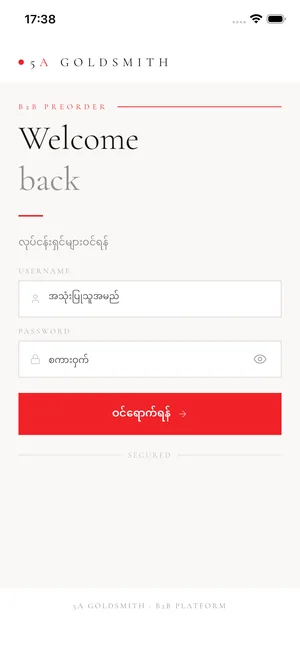
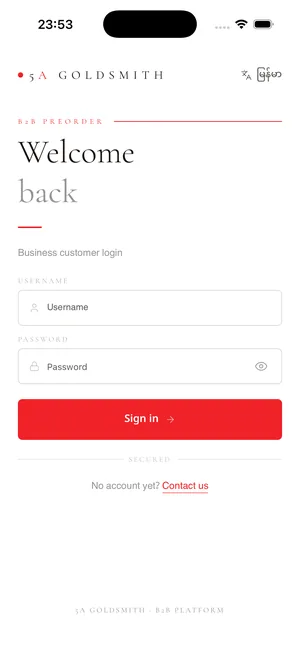
5A Goldsmith: replace app screenshots with the English versions
All six phone screens (login, home/catalogue, product detail, cart/PIN
checkout, orders, order detail) re-shot in the app's English UI, resized to
720px and 300px WebP as before; sizes updated to 720×1565.

diff --git a/src/data/projects.ts b/src/data/projects.ts
@@ -138,12 +138,12 @@ export const projects: Project[] = [
           heading: "Mobile app — iOS and Android, React Native and Expo",
           device: "phone",
           shots: [
-            { file: "login", caption: "Login", width: 720, height: 1558 },
+            { file: "login", caption: "Login", width: 720, height: 1565 },
             { file: "home-catalog", caption: "Home · catalogue", width: 720, height: 1565 },
-            { file: "product-detail", caption: "Product detail", width: 720, height: 1558 },
-            { file: "cart-pin-checkout", caption: "Cart · PIN checkout", width: 720, height: 1558 },
-            { file: "orders", caption: "Orders", width: 720, height: 1558 },
-            { file: "order-detail", caption: "Order detail", width: 720, height: 1558 },
+            { file: "product-detail", caption: "Product detail", width: 720, height: 1565 },
+            { file: "cart-pin-checkout", caption: "Cart · PIN checkout", width: 720, height: 1565 },
+            { file: "orders", caption: "Orders", width: 720, height: 1565 },
+            { file: "order-detail", caption: "Order detail", width: 720, height: 1565 },
           ],
         },
         {

diff --git a/src/components/home/SelectedWork.tsx b/src/components/home/SelectedWork.tsx
@@ -5,8 +5,8 @@ import { ProjectCard } from "./ProjectCard";
 
 const FEATURED_SHOTS = [
   { file: "home-catalog", alt: "5A Goldsmith app: product catalogue", h: 652 },
-  { file: "product-detail", alt: "5A Goldsmith app: product detail", h: 649 },
-  { file: "cart-pin-checkout", alt: "5A Goldsmith app: cart and PIN checkout", h: 649 },
+  { file: "product-detail", alt: "5A Goldsmith app: product detail", h: 652 },
+  { file: "cart-pin-checkout", alt: "5A Goldsmith app: cart and PIN checkout", h: 652 },
 ];
 
 export function SelectedWork() {
